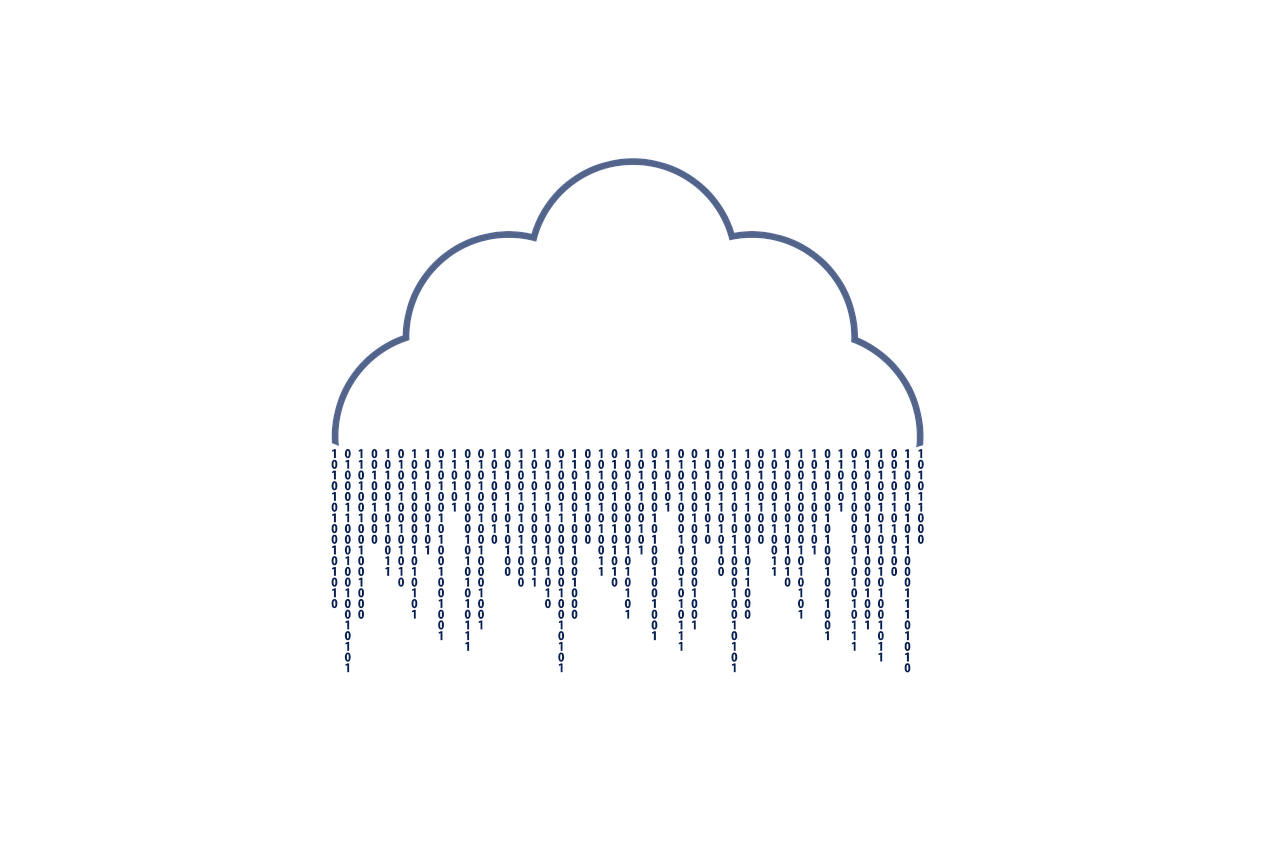
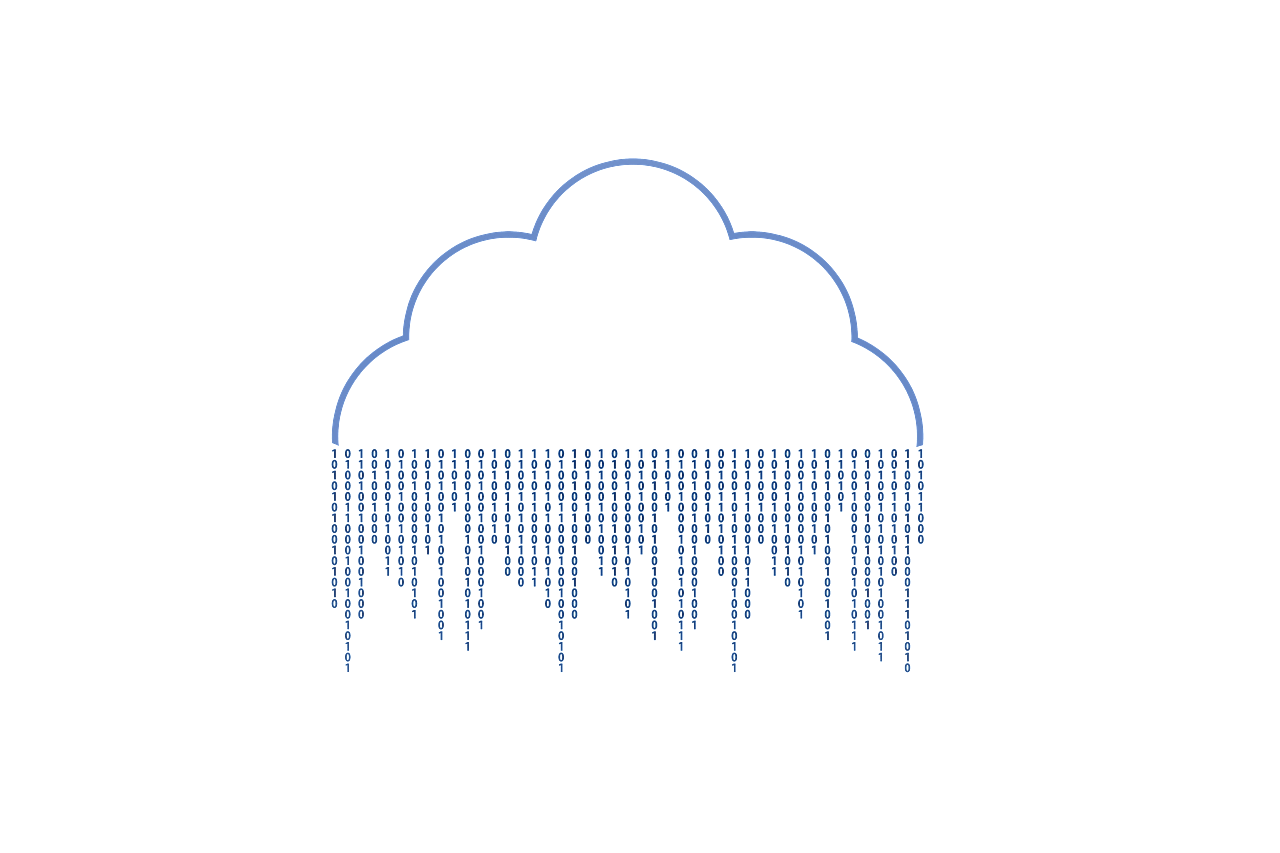
type error

diff --git a/categories.html b/categories.html
@@ -33,13 +33,13 @@
     <body>
 
         <!-- Header -->
-    <div class="header-container" style="background: linear-gradient(rgba(0, 0, 0, 0.2), rgba(0, 0, 0, 0.2)), url('https://joetechem.github.io/images/network.jpg'); background-position: center; background-size: cover;">
+    <div class="header-container" style="background: linear-gradient(rgba(0, 0, 0, 0.2), rgba(0, 0, 0, 0.2)), url('https://joetechem.github.io/images/cloud-rain.jpg'); background-position: center; background-size: cover;">
 
             <!-- Static navbar -->
             <div class="container">
                 <div class="header-nav">
                     <div class="header-logo">
-                        <a class="pull-left" href="https://joetechem.github.io/"><img class="mr20" src="https://joetechem.github.io/images/orange-logo.png" alt="logo">Joe's Calepin</a>
+                        <a class="pull-left" href="https://joetechem.github.io/"><img class="mr20" src="https://joetechem.github.io/logo.svg" alt="logo">Joe's Calepin</a>
                     </div>
                     <div class="nav pull-right">
                                 <a href="https://joetechem.github.io">Home</a>
@@ -72,16 +72,16 @@
         <div class="container content archive">
             <h2><a href="https://joetechem.github.io/category/aws.html">Aws</a></h2>
             <dl class="dl-horizontal">
-            	<dt>2018-12-27</dt>
+            	<dt>Thu 27 December 2018</dt>
             	<dd><a href="https://joetechem.github.io/aws-cli.html">AWS CLI</a></dd>
-            	<dt>2018-12-27</dt>
+            	<dt>Thu 27 December 2018</dt>
             	<dd><a href="https://joetechem.github.io/ec2-summary.html">EC2 Summary</a></dd>
-            	<dt>2018-12-27</dt>
+            	<dt>Thu 27 December 2018</dt>
             	<dd><a href="https://joetechem.github.io/efs-high-level.html">EFS High Level</a></dd>
             </dl>
             <h2><a href="https://joetechem.github.io/category/tutorials.html">Tutorials</a></h2>
             <dl class="dl-horizontal">
-            	<dt>2018-12-26</dt>
+            	<dt>Wed 26 December 2018</dt>
             	<dd><a href="https://joetechem.github.io/ready-to-go-live.html">Ready To Go Live</a></dd>
             </dl>
         </div>

diff --git a/index.html b/index.html
@@ -33,13 +33,13 @@
     <body>
 
         <!-- Header -->
-    <div class="header-container" style="background: linear-gradient(rgba(0, 0, 0, 0.2), rgba(0, 0, 0, 0.2)), url('https://joetechem.github.io/images/network.jpg'); background-position: center; background-size: cover;">
+    <div class="header-container" style="background: linear-gradient(rgba(0, 0, 0, 0.2), rgba(0, 0, 0, 0.2)), url('https://joetechem.github.io/images/cloud-rain.jpg'); background-position: center; background-size: cover;">
 
             <!-- Static navbar -->
             <div class="container">
                 <div class="header-nav">
                     <div class="header-logo">
-                        <a class="pull-left" href="https://joetechem.github.io/"><img class="mr20" src="https://joetechem.github.io/images/orange-logo.png" alt="logo">Joe's Calepin</a>
+                        <a class="pull-left" href="https://joetechem.github.io/"><img class="mr20" src="https://joetechem.github.io/logo.svg" alt="logo">Joe's Calepin</a>
                     </div>
                     <div class="nav pull-right">
                                 <a href="https://joetechem.github.io">Home</a>
@@ -73,13 +73,13 @@
         <div class="container content archive">
             <h2><a href="https://joetechem.github.io/index.html">Last Posts </a></h2>
             <dl class="dl-horizontal">
-                <dt>2018-12-27</dt>
+                <dt>Thu 27 December 2018</dt>
                 <dd><a href="https://joetechem.github.io/aws-cli.html">AWS CLI</a></dd>
-                <dt>2018-12-27</dt>
+                <dt>Thu 27 December 2018</dt>
                 <dd><a href="https://joetechem.github.io/ec2-summary.html">EC2 Summary</a></dd>
-                <dt>2018-12-27</dt>
+                <dt>Thu 27 December 2018</dt>
                 <dd><a href="https://joetechem.github.io/efs-high-level.html">EFS High Level</a></dd>
-                <dt>2018-12-26</dt>
+                <dt>Wed 26 December 2018</dt>
                 <dd><a href="https://joetechem.github.io/ready-to-go-live.html">Ready To Go Live</a></dd>
             </dl>
         </div>

diff --git a/authors.html b/authors.html
@@ -33,13 +33,13 @@
     <body>
 
         <!-- Header -->
-    <div class="header-container" style="background: linear-gradient(rgba(0, 0, 0, 0.2), rgba(0, 0, 0, 0.2)), url('https://joetechem.github.io/images/network.jpg'); background-position: center; background-size: cover;">
+    <div class="header-container" style="background: linear-gradient(rgba(0, 0, 0, 0.2), rgba(0, 0, 0, 0.2)), url('https://joetechem.github.io/images/cloud-rain.jpg'); background-position: center; background-size: cover;">
 
             <!-- Static navbar -->
             <div class="container">
                 <div class="header-nav">
                     <div class="header-logo">
-                        <a class="pull-left" href="https://joetechem.github.io/"><img class="mr20" src="https://joetechem.github.io/images/orange-logo.png" alt="logo">Joe's Calepin</a>
+                        <a class="pull-left" href="https://joetechem.github.io/"><img class="mr20" src="https://joetechem.github.io/logo.svg" alt="logo">Joe's Calepin</a>
                     </div>
                     <div class="nav pull-right">
                                 <a href="https://joetechem.github.io">Home</a>
@@ -72,13 +72,13 @@
         <div class="container content archive">
             <h2><a href="https://joetechem.github.io/author/joe-seiler.html">Joe Seiler</a></h2>
             <dl class="dl-horizontal">
-            	<dt>2018-12-27</dt>
+            	<dt>Thu 27 December 2018</dt>
             	<dd><a href="https://joetechem.github.io/aws-cli.html">AWS CLI</a></dd>
-            	<dt>2018-12-27</dt>
+            	<dt>Thu 27 December 2018</dt>
             	<dd><a href="https://joetechem.github.io/ec2-summary.html">EC2 Summary</a></dd>
-            	<dt>2018-12-27</dt>
+            	<dt>Thu 27 December 2018</dt>
             	<dd><a href="https://joetechem.github.io/efs-high-level.html">EFS High Level</a></dd>
-            	<dt>2018-12-26</dt>
+            	<dt>Wed 26 December 2018</dt>
             	<dd><a href="https://joetechem.github.io/ready-to-go-live.html">Ready To Go Live</a></dd>
             </dl>
         </div>

diff --git a/author/joe-seiler.html b/author/joe-seiler.html
@@ -33,13 +33,13 @@
     <body>
 
         <!-- Header -->
-    <div class="header-container" style="background: linear-gradient(rgba(0, 0, 0, 0.2), rgba(0, 0, 0, 0.2)), url('https://joetechem.github.io/images/network.jpg'); background-position: center; background-size: cover;">
+    <div class="header-container" style="background: linear-gradient(rgba(0, 0, 0, 0.2), rgba(0, 0, 0, 0.2)), url('https://joetechem.github.io/images/cloud-rain.jpg'); background-position: center; background-size: cover;">
 
             <!-- Static navbar -->
             <div class="container">
                 <div class="header-nav">
                     <div class="header-logo">
-                        <a class="pull-left" href="https://joetechem.github.io/"><img class="mr20" src="https://joetechem.github.io/images/orange-logo.png" alt="logo">Joe's Calepin</a>
+                        <a class="pull-left" href="https://joetechem.github.io/"><img class="mr20" src="https://joetechem.github.io/logo.svg" alt="logo">Joe's Calepin</a>
                     </div>
                     <div class="nav pull-right">
                                 <a href="https://joetechem.github.io">Home</a>
@@ -72,13 +72,13 @@
         <div class="container content archive">
             <h2><a href="https://joetechem.github.io/author/joe-seiler.html"></a></h2>
             <dl class="dl-horizontal">
-            	<dt>2018-12-27</dt>
+            	<dt>Thu 27 December 2018</dt>
             	<dd><a href="https://joetechem.github.io/aws-cli.html">AWS CLI</a></dd>
-            	<dt>2018-12-27</dt>
+            	<dt>Thu 27 December 2018</dt>
             	<dd><a href="https://joetechem.github.io/ec2-summary.html">EC2 Summary</a></dd>
-            	<dt>2018-12-27</dt>
+            	<dt>Thu 27 December 2018</dt>
             	<dd><a href="https://joetechem.github.io/efs-high-level.html">EFS High Level</a></dd>
-            	<dt>2018-12-26</dt>
+            	<dt>Wed 26 December 2018</dt>
             	<dd><a href="https://joetechem.github.io/ready-to-go-live.html">Ready To Go Live</a></dd>
             </dl>
         </div>

diff --git a/archives.html b/archives.html
@@ -33,13 +33,13 @@
     <body>
 
         <!-- Header -->
-    <div class="header-container" style="background: linear-gradient(rgba(0, 0, 0, 0.2), rgba(0, 0, 0, 0.2)), url('https://joetechem.github.io/images/network.jpg'); background-position: center; background-size: cover;">
+    <div class="header-container" style="background: linear-gradient(rgba(0, 0, 0, 0.2), rgba(0, 0, 0, 0.2)), url('https://joetechem.github.io/images/cloud-rain.jpg'); background-position: center; background-size: cover;">
 
             <!-- Static navbar -->
             <div class="container">
                 <div class="header-nav">
                     <div class="header-logo">
-                        <a class="pull-left" href="https://joetechem.github.io/"><img class="mr20" src="https://joetechem.github.io/images/orange-logo.png" alt="logo">Joe's Calepin</a>
+                        <a class="pull-left" href="https://joetechem.github.io/"><img class="mr20" src="https://joetechem.github.io/logo.svg" alt="logo">Joe's Calepin</a>
                     </div>
                     <div class="nav pull-right">
                                 <a href="https://joetechem.github.io">Home</a>
@@ -72,13 +72,13 @@
         <div class="container content archive">
             <h2><a href="https://joetechem.github.io/archives.html"></a></h2>
             <dl class="dl-horizontal">
-            	<dt>2018-12-27</dt>
+            	<dt>Thu 27 December 2018</dt>
             	<dd><a href="https://joetechem.github.io/aws-cli.html">AWS CLI</a></dd>
-            	<dt>2018-12-27</dt>
+            	<dt>Thu 27 December 2018</dt>
             	<dd><a href="https://joetechem.github.io/ec2-summary.html">EC2 Summary</a></dd>
-            	<dt>2018-12-27</dt>
+            	<dt>Thu 27 December 2018</dt>
             	<dd><a href="https://joetechem.github.io/efs-high-level.html">EFS High Level</a></dd>
-            	<dt>2018-12-26</dt>
+            	<dt>Wed 26 December 2018</dt>
             	<dd><a href="https://joetechem.github.io/ready-to-go-live.html">Ready To Go Live</a></dd>
             </dl>
         </div>

diff --git a/ready-to-go-live.html b/ready-to-go-live.html
@@ -33,13 +33,13 @@
     <body>
 
         <!-- Header -->
-    <div class="header-container" style="background: linear-gradient(rgba(0, 0, 0, 0.2), rgba(0, 0, 0, 0.2)), url('https://joetechem.github.io/images/network.jpg'); background-position: center; background-size: cover;">
+    <div class="header-container" style="background: linear-gradient(rgba(0, 0, 0, 0.2), rgba(0, 0, 0, 0.2)), url('https://joetechem.github.io/images/cloud-rain.jpg'); background-position: center; background-size: cover;">
 
             <!-- Static navbar -->
             <div class="container">
                 <div class="header-nav">
                     <div class="header-logo">
-                        <a class="pull-left" href="https://joetechem.github.io/"><img class="mr20" src="https://joetechem.github.io/images/orange-logo.png" alt="logo">Joe's Calepin</a>
+                        <a class="pull-left" href="https://joetechem.github.io/"><img class="mr20" src="https://joetechem.github.io/logo.svg" alt="logo">Joe's Calepin</a>
                     </div>
                     <div class="nav pull-right">
                                 <a href="https://joetechem.github.io">Home</a>
@@ -56,7 +56,7 @@
               <div class="col-lg-12">
                   <div class="header-content">
                       <h1 class="header-title">Ready To Go Live</h1>
-                      <p class="header-date"> <a href="https://joetechem.github.io/author/joe-seiler.html">Joe Seiler</a>, 2018-12-26,  <a href="https://joetechem.github.io/category/tutorials.html">Tutorials</a></p>
+                      <p class="header-date"> <a href="https://joetechem.github.io/author/joe-seiler.html">Joe Seiler</a>, Wed 26 December 2018,  <a href="https://joetechem.github.io/category/tutorials.html">Tutorials</a></p>
                       <div class="header-underline"></div>
                       <div class="clearfix"></div>
                       <p class="pull-right header-tags">

diff --git a/efs-high-level.html b/efs-high-level.html
@@ -33,13 +33,13 @@
     <body>
 
         <!-- Header -->
-    <div class="header-container" style="background: linear-gradient(rgba(0, 0, 0, 0.2), rgba(0, 0, 0, 0.2)), url('https://joetechem.github.io/images/network.jpg'); background-position: center; background-size: cover;">
+    <div class="header-container" style="background: linear-gradient(rgba(0, 0, 0, 0.2), rgba(0, 0, 0, 0.2)), url('https://joetechem.github.io/images/cloud-rain.jpg'); background-position: center; background-size: cover;">
 
             <!-- Static navbar -->
             <div class="container">
                 <div class="header-nav">
                     <div class="header-logo">
-                        <a class="pull-left" href="https://joetechem.github.io/"><img class="mr20" src="https://joetechem.github.io/images/orange-logo.png" alt="logo">Joe's Calepin</a>
+                        <a class="pull-left" href="https://joetechem.github.io/"><img class="mr20" src="https://joetechem.github.io/logo.svg" alt="logo">Joe's Calepin</a>
                     </div>
                     <div class="nav pull-right">
                                 <a href="https://joetechem.github.io">Home</a>
@@ -56,7 +56,7 @@
               <div class="col-lg-12">
                   <div class="header-content">
                       <h1 class="header-title">EFS High Level</h1>
-                      <p class="header-date"> <a href="https://joetechem.github.io/author/joe-seiler.html">Joe Seiler</a>, 2018-12-27,  <a href="https://joetechem.github.io/category/aws.html">Aws</a></p>
+                      <p class="header-date"> <a href="https://joetechem.github.io/author/joe-seiler.html">Joe Seiler</a>, Thu 27 December 2018,  <a href="https://joetechem.github.io/category/aws.html">Aws</a></p>
                       <div class="header-underline"></div>
                       <div class="clearfix"></div>
                       <p class="pull-right header-tags">

diff --git a/ec2-summary.html b/ec2-summary.html
@@ -33,13 +33,13 @@
     <body>
 
         <!-- Header -->
-    <div class="header-container" style="background: linear-gradient(rgba(0, 0, 0, 0.2), rgba(0, 0, 0, 0.2)), url('https://joetechem.github.io/images/network.jpg'); background-position: center; background-size: cover;">
+    <div class="header-container" style="background: linear-gradient(rgba(0, 0, 0, 0.2), rgba(0, 0, 0, 0.2)), url('https://joetechem.github.io/images/cloud-rain.jpg'); background-position: center; background-size: cover;">
 
             <!-- Static navbar -->
             <div class="container">
                 <div class="header-nav">
                     <div class="header-logo">
-                        <a class="pull-left" href="https://joetechem.github.io/"><img class="mr20" src="https://joetechem.github.io/images/orange-logo.png" alt="logo">Joe's Calepin</a>
+                        <a class="pull-left" href="https://joetechem.github.io/"><img class="mr20" src="https://joetechem.github.io/logo.svg" alt="logo">Joe's Calepin</a>
                     </div>
                     <div class="nav pull-right">
                                 <a href="https://joetechem.github.io">Home</a>
@@ -56,7 +56,7 @@
               <div class="col-lg-12">
                   <div class="header-content">
                       <h1 class="header-title">EC2 Summary</h1>
-                      <p class="header-date"> <a href="https://joetechem.github.io/author/joe-seiler.html">Joe Seiler</a>, 2018-12-27,  <a href="https://joetechem.github.io/category/aws.html">Aws</a></p>
+                      <p class="header-date"> <a href="https://joetechem.github.io/author/joe-seiler.html">Joe Seiler</a>, Thu 27 December 2018,  <a href="https://joetechem.github.io/category/aws.html">Aws</a></p>
                       <div class="header-underline"></div>
                       <div class="clearfix"></div>
                       <p class="pull-right header-tags">

diff --git a/aws-cli.html b/aws-cli.html
@@ -33,13 +33,13 @@
     <body>
 
         <!-- Header -->
-    <div class="header-container" style="background: linear-gradient(rgba(0, 0, 0, 0.2), rgba(0, 0, 0, 0.2)), url('https://joetechem.github.io/images/network.jpg'); background-position: center; background-size: cover;">
+    <div class="header-container" style="background: linear-gradient(rgba(0, 0, 0, 0.2), rgba(0, 0, 0, 0.2)), url('https://joetechem.github.io/images/cloud-rain.jpg'); background-position: center; background-size: cover;">
 
             <!-- Static navbar -->
             <div class="container">
                 <div class="header-nav">
                     <div class="header-logo">
-                        <a class="pull-left" href="https://joetechem.github.io/"><img class="mr20" src="https://joetechem.github.io/images/orange-logo.png" alt="logo">Joe's Calepin</a>
+                        <a class="pull-left" href="https://joetechem.github.io/"><img class="mr20" src="https://joetechem.github.io/logo.svg" alt="logo">Joe's Calepin</a>
                     </div>
                     <div class="nav pull-right">
                                 <a href="https://joetechem.github.io">Home</a>
@@ -56,7 +56,7 @@
               <div class="col-lg-12">
                   <div class="header-content">
                       <h1 class="header-title">AWS CLI</h1>
-                      <p class="header-date"> <a href="https://joetechem.github.io/author/joe-seiler.html">Joe Seiler</a>, 2018-12-27,  <a href="https://joetechem.github.io/category/aws.html">Aws</a></p>
+                      <p class="header-date"> <a href="https://joetechem.github.io/author/joe-seiler.html">Joe Seiler</a>, Thu 27 December 2018,  <a href="https://joetechem.github.io/category/aws.html">Aws</a></p>
                       <div class="header-underline"></div>
                       <div class="clearfix"></div>
                       <p class="pull-right header-tags">

diff --git a/tag/developer.html b/tag/developer.html
@@ -33,13 +33,13 @@
     <body>
 
         <!-- Header -->
-    <div class="header-container" style="background: linear-gradient(rgba(0, 0, 0, 0.2), rgba(0, 0, 0, 0.2)), url('https://joetechem.github.io/images/network.jpg'); background-position: center; background-size: cover;">
+    <div class="header-container" style="background: linear-gradient(rgba(0, 0, 0, 0.2), rgba(0, 0, 0, 0.2)), url('https://joetechem.github.io/images/cloud-rain.jpg'); background-position: center; background-size: cover;">
 
             <!-- Static navbar -->
             <div class="container">
                 <div class="header-nav">
                     <div class="header-logo">
-                        <a class="pull-left" href="https://joetechem.github.io/"><img class="mr20" src="https://joetechem.github.io/images/orange-logo.png" alt="logo">Joe's Calepin</a>
+                        <a class="pull-left" href="https://joetechem.github.io/"><img class="mr20" src="https://joetechem.github.io/logo.svg" alt="logo">Joe's Calepin</a>
                     </div>
                     <div class="nav pull-right">
                                 <a href="https://joetechem.github.io">Home</a>
@@ -72,11 +72,11 @@
         <div class="container content archive">
             <h2><a href="https://joetechem.github.io/tag/developer.html">developer</a></h2>
             <dl class="dl-horizontal">
-            	<dt>2018-12-27</dt>
+            	<dt>Thu 27 December 2018</dt>
             	<dd><a href="https://joetechem.github.io/aws-cli.html">AWS CLI</a></dd>
-            	<dt>2018-12-27</dt>
+            	<dt>Thu 27 December 2018</dt>
             	<dd><a href="https://joetechem.github.io/ec2-summary.html">EC2 Summary</a></dd>
-            	<dt>2018-12-27</dt>
+            	<dt>Thu 27 December 2018</dt>
             	<dd><a href="https://joetechem.github.io/efs-high-level.html">EFS High Level</a></dd>
             </dl>
         </div>

diff --git a/category/aws.html b/category/aws.html
@@ -33,13 +33,13 @@
     <body>
 
         <!-- Header -->
-    <div class="header-container" style="background: linear-gradient(rgba(0, 0, 0, 0.2), rgba(0, 0, 0, 0.2)), url('https://joetechem.github.io/images/network.jpg'); background-position: center; background-size: cover;">
+    <div class="header-container" style="background: linear-gradient(rgba(0, 0, 0, 0.2), rgba(0, 0, 0, 0.2)), url('https://joetechem.github.io/images/cloud-rain.jpg'); background-position: center; background-size: cover;">
 
             <!-- Static navbar -->
             <div class="container">
                 <div class="header-nav">
                     <div class="header-logo">
-                        <a class="pull-left" href="https://joetechem.github.io/"><img class="mr20" src="https://joetechem.github.io/images/orange-logo.png" alt="logo">Joe's Calepin</a>
+                        <a class="pull-left" href="https://joetechem.github.io/"><img class="mr20" src="https://joetechem.github.io/logo.svg" alt="logo">Joe's Calepin</a>
                     </div>
                     <div class="nav pull-right">
                                 <a href="https://joetechem.github.io">Home</a>
@@ -72,11 +72,11 @@
         <div class="container content archive">
             <h2><a href="https://joetechem.github.io/category/aws.html">Aws</a></h2>
             <dl class="dl-horizontal">
-            	<dt>2018-12-27</dt>
+            	<dt>Thu 27 December 2018</dt>
             	<dd><a href="https://joetechem.github.io/aws-cli.html">AWS CLI</a></dd>
-            	<dt>2018-12-27</dt>
+            	<dt>Thu 27 December 2018</dt>
             	<dd><a href="https://joetechem.github.io/ec2-summary.html">EC2 Summary</a></dd>
-            	<dt>2018-12-27</dt>
+            	<dt>Thu 27 December 2018</dt>
             	<dd><a href="https://joetechem.github.io/efs-high-level.html">EFS High Level</a></dd>
             </dl>
         </div>

diff --git a/tag/cloud.html b/tag/cloud.html
@@ -33,13 +33,13 @@
     <body>
 
         <!-- Header -->
-    <div class="header-container" style="background: linear-gradient(rgba(0, 0, 0, 0.2), rgba(0, 0, 0, 0.2)), url('https://joetechem.github.io/images/network.jpg'); background-position: center; background-size: cover;">
+    <div class="header-container" style="background: linear-gradient(rgba(0, 0, 0, 0.2), rgba(0, 0, 0, 0.2)), url('https://joetechem.github.io/images/cloud-rain.jpg'); background-position: center; background-size: cover;">
 
             <!-- Static navbar -->
             <div class="container">
                 <div class="header-nav">
                     <div class="header-logo">
-                        <a class="pull-left" href="https://joetechem.github.io/"><img class="mr20" src="https://joetechem.github.io/images/orange-logo.png" alt="logo">Joe's Calepin</a>
+                        <a class="pull-left" href="https://joetechem.github.io/"><img class="mr20" src="https://joetechem.github.io/logo.svg" alt="logo">Joe's Calepin</a>
                     </div>
                     <div class="nav pull-right">
                                 <a href="https://joetechem.github.io">Home</a>
@@ -72,11 +72,11 @@
         <div class="container content archive">
             <h2><a href="https://joetechem.github.io/tag/cloud.html">cloud</a></h2>
             <dl class="dl-horizontal">
-            	<dt>2018-12-27</dt>
+            	<dt>Thu 27 December 2018</dt>
             	<dd><a href="https://joetechem.github.io/aws-cli.html">AWS CLI</a></dd>
-            	<dt>2018-12-27</dt>
+            	<dt>Thu 27 December 2018</dt>
             	<dd><a href="https://joetechem.github.io/ec2-summary.html">EC2 Summary</a></dd>
-            	<dt>2018-12-27</dt>
+            	<dt>Thu 27 December 2018</dt>
             	<dd><a href="https://joetechem.github.io/efs-high-level.html">EFS High Level</a></dd>
             </dl>
         </div>
